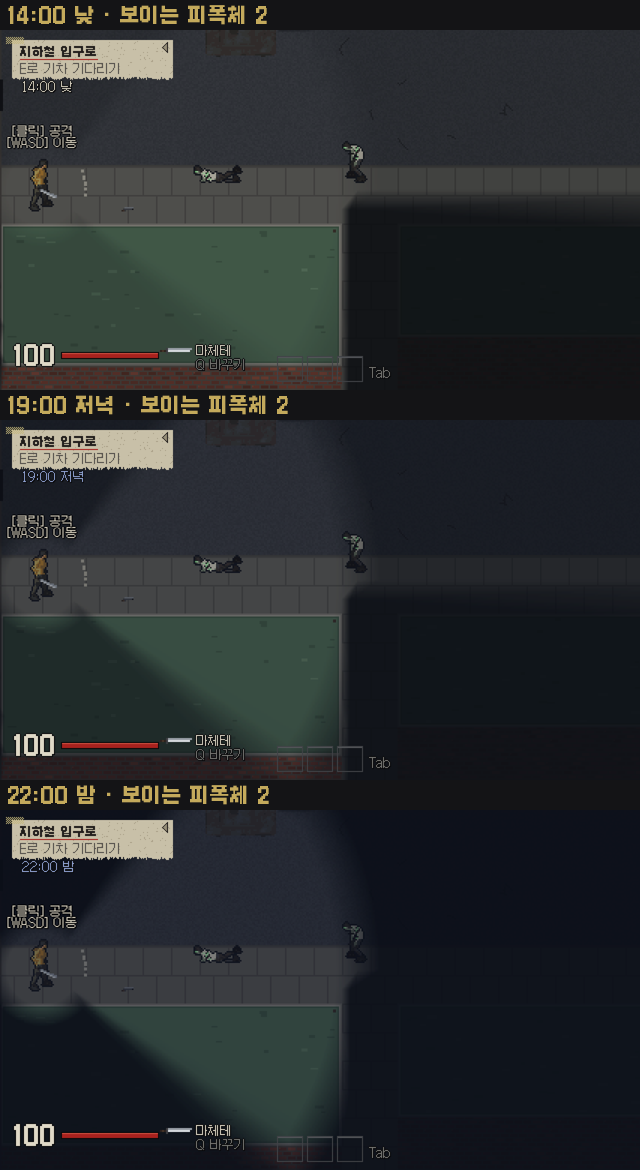
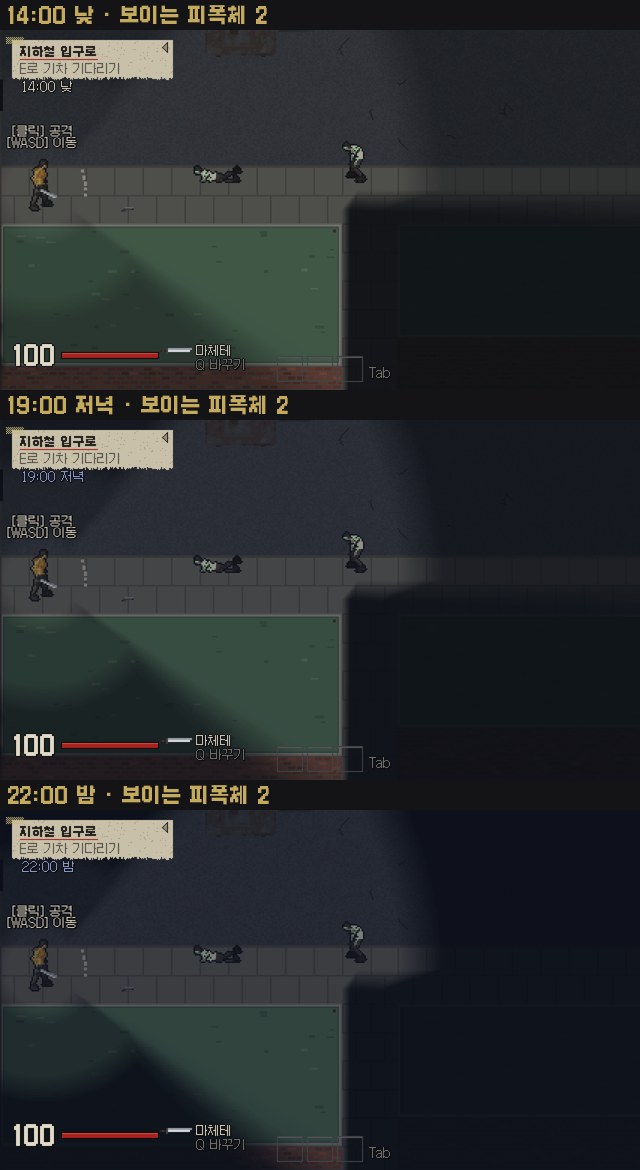
시야·빛 다듬기와 설정창 정리
- 몸 주변 원은 반쯤만 어둡게, 앞 시야 400, 낮 어둠 110
- F4: 묶음 제목, 휠 스크롤, 스크롤 막대, 시야·빛 슬라이더 5개

diff --git a/docs/devlog/index.html b/docs/devlog/index.html
@@ -107,6 +107,7 @@ a:focus-visible { outline: 2px solid var(--hazard); outline-offset: 2px; }
   <section class="view log" id="view-dev" aria-labelledby="logtitle">
     <div class="section-title"><h2 id="logtitle">개발 일지</h2><small>무엇을 만들었나 · 최신이 위</small></div>
     <ol>
+      <li><span class="d">11.18</span><span>몸 주변을 살짝 밝게, 앞 시야 400, 낮은 덜 보이게. F4 설정창을 묶음 제목·스크롤로 정리하고 시야·빛 슬라이더 추가</span></li>
       <li><span class="d">11.18</span><span>낮과 밤: 30초가 1시간, 낮엔 시야 밖도 흐리게 보이고 밤엔 시야 안만 밝다</span></li>
       <li><span class="d">11.18</span><span>타격감 두 단계: 가벼운 타격은 짧게 멈추고 살짝 떨림, 마지막 일격·머리·다리 베기는 길게 멈추고 크게 흔들림, 맞으면 하얗게 번쩍</span></li>
       <li><span class="d">11.18</span><span>AI 디렉터: 긴장도에 따라 피폭체가 쌓이고, 몰려오고, 쉰다. 디펜스는 쉬는 틈과 마지막 15초 대량 습격 → <a href="#director">AI 디렉터</a></span></li>

diff --git a/src/dev_tools.py b/src/dev_tools.py
@@ -22,6 +22,8 @@ import pico2d
 import sdl2
 
 import area
+import daylight
+import vision_cone
 import condition
 import hero as hero_rules
 import infected
@@ -61,11 +63,12 @@ class Dev:
         self.speed = 1.0             # the whole game's time
         self.freeze = False          # the infected stand still
         self.no_spawn = False        # no new infected come in
-        self.row = 0
         self.ate_press = False       # a click went to the panel: its release is not a blow
         self.drag = None             # the slider row being dragged
         self.editing = None          # the slider row whose number is being typed
         self.text = ""
+        self.scroll = 0              # the first row shown (the panel scrolls)
+        self.row = 1                 # (row 0 is a heading)
 
 
 def _flip(attr):
@@ -150,36 +153,74 @@ def _restart(game, step):
     game.reset()
 
 
-# (label, value shown or None for an action, change(game, step)[, slider spec])
+# (label, value shown or None for an action, change(game, step)[, slider spec]); a 1-tuple is a
+# section heading (2026-11-18 "개발 설정창을 좀 다듬어 줘, 스크롤도")
 ROWS = (
+    ("보기",),
     ("공격 범위·히트박스 (F1)", lambda g: _on(g.dev.boxes), _flip("boxes")),
     ("시야 범위 (F5)", lambda g: _on(g.dev.sight), _flip("sight")),
     ("소리 범위 (F6)", lambda g: _on(g.dev.sounds), _flip("sounds")),
     ("AI 디렉터 (F7)", lambda g: _on(g.dev.director), _flip("director")),
-    ("실험: 빠르게 (주인공 동작 1.3배)", lambda g: _on(hero_rules.Hero.action_speed > 1.0), _fast),
-    ("무적", lambda g: _on(g.dev.god), _flip("god")),
-    ("피폭체 멈춤", lambda g: _on(g.dev.freeze), _flip("freeze")),
-    ("새 피폭체 안 옴", lambda g: _on(g.dev.no_spawn), _flip("no_spawn")),
-    ("피폭체 감각 (F2)", lambda g: _on(g.senses), _senses),
-    ("사실적 연출 (F3)", lambda g: _on(g.real), _real),
-    _slider("게임 속도", "clock", lambda g: g.dev.speed, lambda g, v: setattr(g.dev, "speed", v), 0.25, 2.0, 0.25,
-            lambda v: f"x{v:g}"),
+    ("시야와 빛",),
+    _slider("앞 시야 길이", "eye", *_module_value(vision_cone, "CONE_RANGE"), 150, 700, 10, lambda v: f"{v:g}"),
+    _slider("몸 주변 원", "eye", *_module_value(vision_cone, "NEAR_GLOW"), 40, 300, 10, lambda v: f"{v:g}"),
+    _slider("주변 어둡기", "eye", *_module_value(vision_cone, "GLOW_DARK", 100), 0, 100, 5, lambda v: f"{v:.0f}%"),
+    _slider("낮 어둡기", "clock", *_module_value(daylight, "FOG_DAY"), 0, 255, 5, lambda v: f"{v:g}"),
+    _slider("밤 어둡기", "clock", *_module_value(daylight, "FOG_NIGHT"), 100, 255, 5, lambda v: f"{v:g}"),
     _slider("시각", "clock", lambda g: g.daylight.hour, lambda g, v: setattr(g.daylight, "hour", v % 24), 0, 23.5, 0.5,
             lambda v: f"{int(v):02d}:{int(v % 1 * 60):02d}"),
+    ("주인공",),
+    ("무적", lambda g: _on(g.dev.god), _flip("god")),
+    ("실험: 빠르게 (주인공 동작 1.3배)", lambda g: _on(hero_rules.Hero.action_speed > 1.0), _fast),
     _slider("주인공 속도", "run", *_module_value(hero_rules, "RUN_SPEED"), 30, 300, 10, lambda v: f"{v:g}"),
-    _slider("피폭체 속도", "zed", *_module_value(infected, "ZOMBIE_SPEED"), 0, 300, 10, lambda v: f"{v:g}"),
-    _slider("피폭체 발견 거리", "eye", *_module_value(infected, "SPOT_DIST"), 30, 400, 10, lambda v: f"{v:g}"),
     _slider("출혈 확률", "drop", *_module_value(condition, "BLEED_CHANCE", 100), 0, 100, 5, lambda v: f"{v:.0f}%"),
     _slider("맞을 때 체력", "heart", *_module_value(condition, "BLOW_DAMAGE"), 0, 100, 1, lambda v: f"-{v:g}%"),
     ("체력 채우기·출혈 멈춤", None, _heal),
     ("붕대 +3", None, _give("bandage", 3)),
     ("통조림 +3", None, _give("can", 3)),
     ("탄약 채우기", None, _ammo),
+    ("피폭체",),
+    ("피폭체 멈춤", lambda g: _on(g.dev.freeze), _flip("freeze")),
+    ("새 피폭체 안 옴", lambda g: _on(g.dev.no_spawn), _flip("no_spawn")),
+    ("피폭체 감각 (F2)", lambda g: _on(g.senses), _senses),
+    _slider("피폭체 속도", "zed", *_module_value(infected, "ZOMBIE_SPEED"), 0, 300, 10, lambda v: f"{v:g}"),
+    _slider("피폭체 발견 거리", "eye", *_module_value(infected, "SPOT_DIST"), 30, 400, 10, lambda v: f"{v:g}"),
     ("피폭체 소환 (커서)", None, _spawn(False)),
     ("기어가는 피폭체 소환", None, _spawn(True)),
     ("피폭체 모두 없애기", None, _clear),
+    ("게임",),
+    _slider("게임 속도", "clock", lambda g: g.dev.speed, lambda g, v: setattr(g.dev, "speed", v), 0.25, 2.0, 0.25,
+            lambda v: f"x{v:g}"),
+    ("사실적 연출 (F3)", lambda g: _on(g.real), _real),
     ("다시 시작", None, _restart),
 )
+VISIBLE = 20                        # rows shown at once; the mouse wheel / arrows scroll the rest
+
+
+def heading(i):
+    return len(ROWS[i]) == 1
+
+
+def keep_in_view(dev):
+    """Scroll so the chosen row is on screen."""
+    top = dev.row - 1 if dev.row > 0 and heading(dev.row - 1) else dev.row      # its heading too
+    dev.scroll = max(min(dev.scroll, top), dev.row - VISIBLE + 1)
+    dev.scroll = max(0, min(dev.scroll, len(ROWS) - VISIBLE))
+
+
+def wheel(game, amount):
+    """The mouse wheel over the open panel scrolls it. True if it did (the game does not zoom then)."""
+    dev = game.dev
+    if not dev.open:
+        return False
+    x, y = sdl2.c_int(), sdl2.c_int()
+    sdl2.SDL_GetMouseState(x, y)
+    cx, cy = px.to_canvas(x.value, y.value)
+    l, t, r = PANEL
+    if not (l <= cx <= r and t <= cy <= t + 18 + VISIBLE * ROW_H):
+        return False
+    dev.scroll = max(0, min(len(ROWS) - VISIBLE, dev.scroll - amount * 2))
+    return True
 
 
 # ---------------------------------------------------------------------- input
@@ -207,7 +248,11 @@ def key(game, k):
         typing(game, k)
         return True
     if k in (sdl2.SDLK_UP, sdl2.SDLK_DOWN):
-        dev.row = (dev.row + (1 if k == sdl2.SDLK_DOWN else -1)) % len(ROWS)
+        step = 1 if k == sdl2.SDLK_DOWN else -1
+        dev.row = (dev.row + step) % len(ROWS)
+        while heading(dev.row):                        # headings are skipped
+            dev.row = (dev.row + step) % len(ROWS)
+        keep_in_view(dev)
     elif k in (sdl2.SDLK_LEFT, sdl2.SDLK_RIGHT, sdl2.SDLK_RETURN):
         ROWS[dev.row][2](game, -1 if k == sdl2.SDLK_LEFT else 1)
     else:
@@ -258,11 +303,14 @@ def drag(game, sx, sy):
     return True
 
 
-def row_at(sx, sy):
+def row_at(game, sx, sy):
     cx, cy = px.to_canvas(sx, sy)
     l, t, r = PANEL
-    i = int((cy - t - 16) // ROW_H)
-    return i if l <= cx <= r and 0 <= i < len(ROWS) and cy >= t + 16 else None
+    k = int((cy - t - 16) // ROW_H)
+    i = game.dev.scroll + k
+    if not (l <= cx <= r and 0 <= k < VISIBLE and 0 <= i < len(ROWS) and cy >= t + 16) or heading(i):
+        return None
+    return i
 
 
 def click(game, sx, sy, right):
@@ -272,9 +320,14 @@ def click(game, sx, sy, right):
         return False
     cx, cy = px.to_canvas(sx, sy)
     l, t, r = PANEL
-    if not (l <= cx <= r and t <= cy <= t + 18 + len(ROWS) * ROW_H):
+    if not (l <= cx <= r and t <= cy <= t + 18 + VISIBLE * ROW_H):
         return False
-    i = row_at(sx, sy)
+    if cx >= r - 5:                                    # the scroll bar: jump there
+        share = (cy - t - 16) / (VISIBLE * ROW_H)
+        dev.scroll = max(0, min(len(ROWS) - VISIBLE, round(share * len(ROWS) - VISIBLE / 2)))
+        dev.ate_press = True
+        return True
+    i = row_at(game, sx, sy)
     if dev.editing is not None and i != dev.editing:   # clicked elsewhere: typing is done
         typing(game, sdl2.SDLK_RETURN)
     if i is not None:
@@ -302,14 +355,28 @@ def draw_panel(game):
     if not dev.open:
         return
     l, t, r = PANEL
-    b = t + 18 + len(ROWS) * ROW_H
+    b = t + 18 + VISIBLE * ROW_H
     px.rect(l, t, r, b, PANEL_BG)
     px.frame(l, t, r, b, PANEL_EDGE)
     px.text(l + 6, t + 3, "개발 설정 (F4)", PANEL_EDGE, bold=True)
-    px.text(r - 6, t + 3, "끌기 · 숫자 입력 · ↑↓←→", GREY, anchor="r")
-    for i, row in enumerate(ROWS):
+    px.text(r - 8, t + 3, "휠 스크롤 · 끌기 · 숫자 입력", GREY, anchor="r")
+    # the scroll bar on the right edge: where the shown rows are in the whole list
+    bar_t, bar_b = t + 16, b - 2
+    px.rect(r - 4, bar_t, r - 2, bar_b, (40, 42, 46))
+    top = bar_t + round((bar_b - bar_t) * dev.scroll / len(ROWS))
+    bot = bar_t + round((bar_b - bar_t) * min(len(ROWS), dev.scroll + VISIBLE) / len(ROWS))
+    px.rect(r - 4, top, r - 2, bot, (150, 140, 110))
+    for k in range(VISIBLE):
+        i = dev.scroll + k
+        if i >= len(ROWS):
+            break
+        row = ROWS[i]
+        y = t + 17 + k * ROW_H
+        if heading(i):                                 # a section heading
+            px.text(l + 6, y, row[0], PANEL_EDGE, bold=True)
+            px.rect(l + 8 + px.width(row[0], True), y + 6, r - 8, y + 6, (70, 66, 52))
+            continue
         label, value = row[0], row[1]
-        y = t + 17 + i * ROW_H
         if i == dev.row:
             px.rect(l + 2, y - 1, r - 2, y + ROW_H - 2, CHOSEN)
         if len(row) > 3:

diff --git a/src/vision_cone.py b/src/vision_cone.py
@@ -29,10 +29,15 @@ CONE_HALF = 0.7            # radians either side of the look direction (~80 degr
 CONE_SOFT = 0.16           # radians over which the cone's sides fade into the dark
 # 2026-11-16 "앞을 볼 수 있는 시야가 살짝 더 커야 할 듯, 맵이 커지게 된다면": 250 -> 330, so the
 # cone's end reaches about the side of the screen at the default zoom.
-CONE_RANGE = 330           # px the cone reaches
+CONE_RANGE = 400           # px the cone reaches (2026-11-18 "앞 시야가 조금 더 길어도": was 330)
 RANGE_SOFT = 50
 NEAR_CLEAR = 40            # px around the body that is always lit (melee range and a little more)
 NEAR_SOFT = 24
+# 2026-11-18 "주변(빨간 부분)은 살짝 연하게 보여도 괜찮을 것 같다": a ring around the body, out to
+# NEAR_GLOW, is only partly dark - GLOW_DARK of the full darkness - so what is close is faintly seen.
+NEAR_GLOW = 120
+GLOW_SOFT = 30
+GLOW_DARK = 0.5
 STEPS = 96                 # mesh resolution around the eye
 RADII = (0, 15, 30, 40, 52, 64, 80, 120, 160, 200, 250, 290, 330, 355, 380, 900)
 FAR = RADII[-1]
@@ -68,7 +73,7 @@ def alpha_at(dx, dy, look, scale=1.0, fog=FOG):
     `scale` < 1 narrows and shortens the cone (panic); `fog` is how dark it is outside the light
     (lower by day, daylight.py)."""
     r = hypot(dx, dy)
-    near = _ramp((r - NEAR_CLEAR) / NEAR_SOFT)
+    near = GLOW_DARK * _ramp((r - NEAR_CLEAR) / NEAR_SOFT) + (1 - GLOW_DARK) * _ramp((r - NEAR_GLOW) / GLOW_SOFT)
     off = abs((atan2(dy, dx) - look + pi) % (2 * pi) - pi)
     cone = max(_ramp((off - CONE_HALF * scale) / CONE_SOFT), _ramp((r - CONE_RANGE * scale) / RANGE_SOFT))
     return fog * min(near, cone)
@@ -83,7 +88,7 @@ class VisionCone:
         self.scale = 1.0                 # < 1 while panicking: a narrower, shorter cone
         self.fog = FOG                   # darkness outside the light: lower by day (daylight.py);
                                          # behind walls it stays FOG
-        n, m = STEPS, len(RADII) + 2
+        n, m = STEPS, len(RADII) + 2 + 4     # + the shadow's start and end, + the glow's and the cone's edges
         self.spoke = m
         self.count = n * m
         self.vertices = (sdl2.SDL_Vertex * self.count)()
@@ -125,7 +130,8 @@ class VisionCone:
         for a, angle in enumerate(self.angles):
             ca, sa = cos(angle), sin(angle)
             hit = ray_hit(eye[0], eye[1], ca, sa, near) if near else FAR
-            radii = sorted(RADII + (min(hit, FAR - 1), min(hit + SHADOW_SOFT, FAR)))
+            edges = (NEAR_GLOW, NEAR_GLOW + GLOW_SOFT, CONE_RANGE * self.scale, CONE_RANGE * self.scale + RANGE_SOFT)
+            radii = sorted(RADII + (min(hit, FAR - 1), min(hit + SHADOW_SOFT, FAR)) + tuple(min(e, FAR) for e in edges))
             for k, radius in enumerate(radii):
                 v = self.vertices[a * m + k]
                 dx, dy = ca * radius, sa * radius

diff --git a/src/main.py b/src/main.py
@@ -68,6 +68,8 @@ def main(window_x=None):
             elif game.bag_open and event.type in (sdl2.SDL_MOUSEMOTION, sdl2.SDL_MOUSEBUTTONDOWN,
                                                   sdl2.SDL_MOUSEBUTTONUP):
                 bag_mouse(game, event)               # the bag takes the mouse while it is open
+            elif event.type == sdl2.SDL_MOUSEWHEEL and event.y and dev_tools.wheel(game, event.y):
+                pass                                 # over the F4 panel: it scrolls
             elif event.type == sdl2.SDL_MOUSEWHEEL and event.y:
                 game.wheel(event.y)                  # zoom in / out
             elif event.type == sdl2.SDL_MOUSEMOTION:

diff --git a/src/daylight.py b/src/daylight.py
@@ -12,7 +12,7 @@ and how dark it is outside the hero's view cone because of it.
 HOUR = 30.0                 # real s per hour of the day
 START = 14.0                # the hour a play starts at
 DAWN, DAY, DUSK, NIGHT = 5.0, 7.0, 18.0, 20.0   # light rises DAWN..DAY, falls DUSK..NIGHT
-FOG_DAY = 50                # darkness outside the cone by day (< vision_cone.HIDE_FROM: still seen)
+FOG_DAY = 110               # darkness outside the cone by day (< vision_cone.HIDE_FROM: still seen; 50 showed too much)
 FOG_NIGHT = 228             # ...and at night (vision_cone.FOG)
 NIGHT_TINT = (8, 16, 40, 70)  # rgba laid over the world at full night
 

diff --git a/docs/DEVLOG.md b/docs/DEVLOG.md
@@ -337,3 +337,4 @@
 - **주인공 능력 정함(2026-11-18):** 피폭체를 죽이면 "수정", 수정으로 능력 올리기, 올릴수록 주인공도 단계적 변이. DESIGN_LOCK 2절(기둥 2를 이걸로 되살림), 보류함의 결정 재화를 꺼냄, TODO 6번.
 - **피폭 기획 정함(2026-11-18):** 수정을 먹어서 능력을 올릴 때만 피폭이 오름(지역·맞음·시간으로는 안 오름), 못 되돌림, 가득 차면 완전한 괴물이지만 사람 편(게임 오버·나쁜 결말 없음). DESIGN_LOCK 2절 "피폭" 줄 추가, "이야기·결말"의 쉘터 공격 결말은 쓰지 않음으로 표시. 할 일: 피폭 억제제(되돌리는 약)는 이제 쓸모가 없어 정리 대상.
 - **피폭체 그림 되돌림(2026-11-18):** 사용자 "좀비 초록색이 너무 많습니다, 그냥 이전으로 되돌리세요, 일반 몬스터는 그냥 이전 것 쓰도록 하죠". 손질한 idle을 넣었던 것을 되돌림(게임 그림은 커밋된 원래 것, 손질본은 `pixelorama/work/infected_dot/idle_hand.png`에 남김). 게임 속 모습 비교 `docs/planning/infected_now.png`(서 있기만 초록이 진해 다른 동작과 따로 놀았음).
+- **시야·빛 다듬기와 설정창 정리(2026-11-18):** 사용자 "(몸 주변) 빨간 부분은 살짝 연하게 보여도 괜찮을 것 같다", "앞 시야가 조금 더 길어도", "이걸 설정에서 조절, 스크롤도 만들어서 개발 설정창을 다듬어 줘", "낮에는 너무 다 보이는 것 같다". `vision_cone`: 몸 주변 원 `NEAR_GLOW 120`(그 안은 어둠의 `GLOW_DARK 50%`만), `CONE_RANGE` 330→400, 그물 꼭짓점에 원 끝·시야 끝을 더해 경계가 흐려지지 않게. `daylight.FOG_DAY` 50→110. `dev_tools`: 줄을 보기 / 시야와 빛 / 주인공 / 피폭체 / 게임 묶음 제목으로 나눔, 한 번에 20줄 보이고 휠·화살표로 스크롤(제목은 건너뜀, 제목도 함께 보이게), 오른쪽 스크롤 막대(누르면 그 자리로), 새 슬라이더 5개(앞 시야 길이, 몸 주변 원, 주변 어둡기, 낮·밤 어둡기). main.py: 패널 위 휠은 확대 대신 스크롤. 점검 check_slider(예전 것 + 스크롤·제목 건너뛰기·시야 길이 430), check_dev, check_daylight. 화면 `docs/planning/dev_sliders.png`, `daylight.png`.
